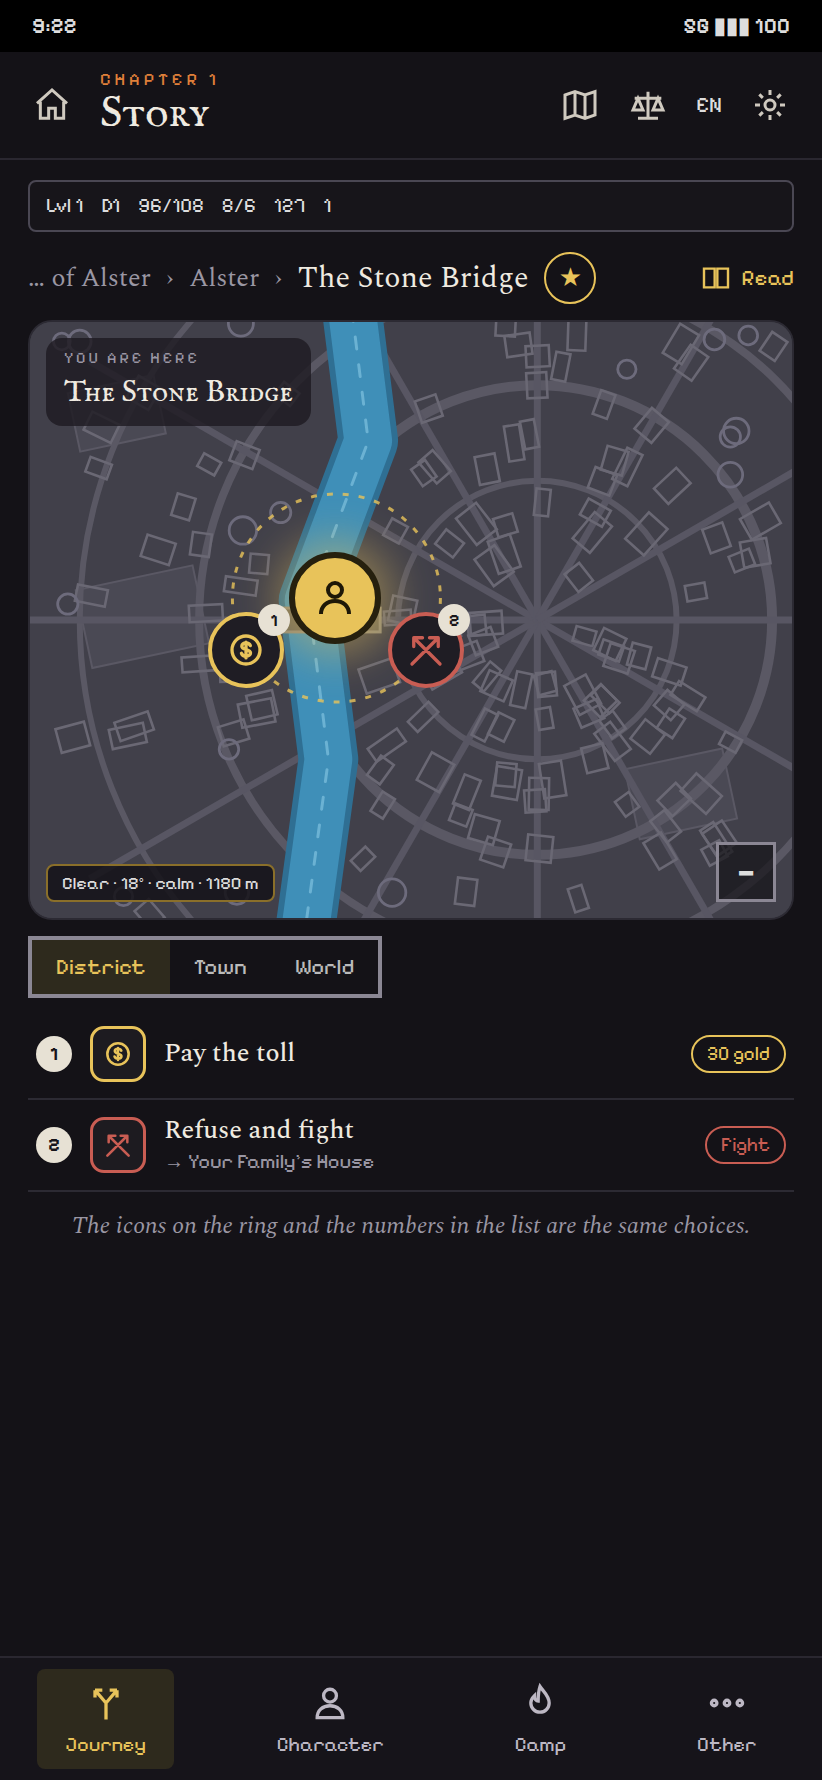
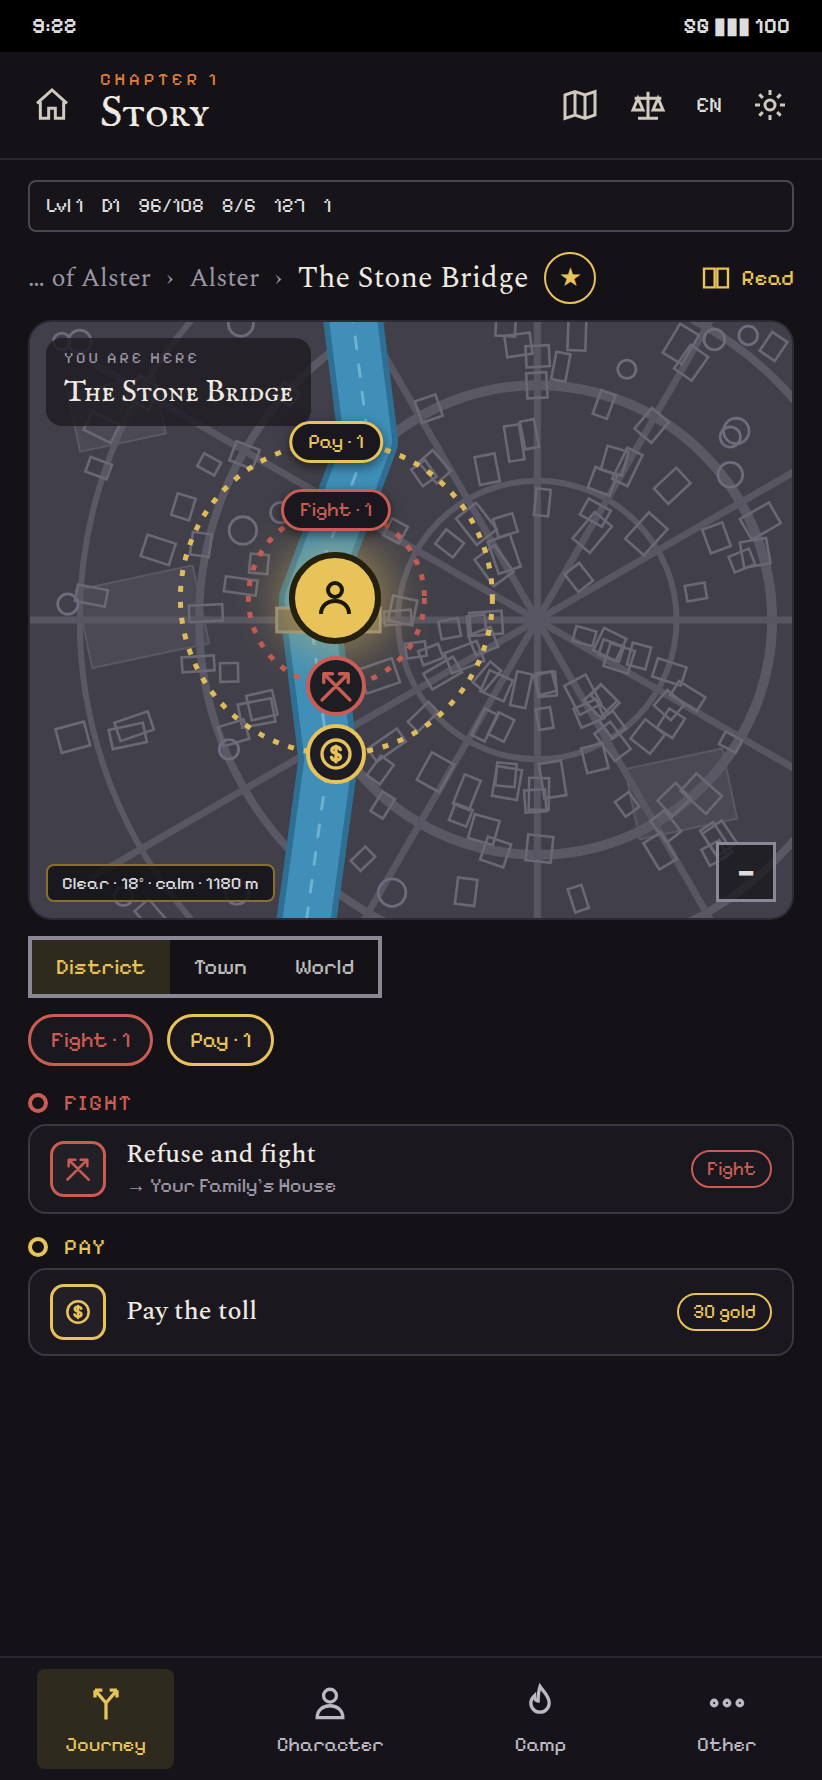
docs: in-place choices: rings by list with chips (town hub example), main-story scene view like the explorations
Claude-Session: https://claude.ai/code/session_01Y8cU3zPWWudNpnZGCrkKEc

diff --git a/docs/proposals/inplace-choices.md b/docs/proposals/inplace-choices.md
@@ -1,4 +1,4 @@
-# Choices that keep you in place: four designs
+# Choices that keep you in place: four designs, then two additions
 
 Mockups only, nothing built. The brief is `docs/proposals/inplace-choices-brief.md` on the manager's branch (`ccr-76229db7-131ulj`), with the user's three screenshots. The problem in one line: on the Journey map every choice is a pin, and 62% of choices don't move the player, so the labels pile on the marker and on each other.
 
@@ -44,15 +44,19 @@ When the step's choices are `here` choices, the map dims and a panel slides up: 
 - **Against:** it covers most of the screen, so a 5-choice scene scrolls inside the panel. It hides the map exactly when the player may want to see where "Run" goes. Two kinds of step now look different, so the rule for which one you get has to be exact (every choice `here` → panel, otherwise → list?).
 - **Build:** a bottom sheet (like the reward card), a `SceneVignette` that needs the foe's picture (icon today), and the "line the scene ends on", which is the last sentence of the node's text or a new `prompt` field from Narrative.
 
-## 3. Ring around the marker
+## 3. Rings by list, with a chip
 
 ![](images/inplace-3-ring-bridge.png) ![](images/inplace-3-ring-house.png)
 
-The `here` choices are 2 to 4 small action icons on a ring around "You are here", each with a number. The list under the map has the same numbers, so the labels never sit on the map. A plain `go` choice stays a pin with its path.
+Revised after the user's note: **one ring for each list, and a chip that opens the list.** The `here` choices are grouped by kind (Core's action: fight, pay, talk or decide, check), and each group is its own ring around "You are here", with a chip on the ring ("Fight · 1", "Pay · 1") and the same chip under the map. A ring holds up to 5 icons and a "+N" icon for the rest; tapping a chip, on the ring or under the map, opens that list (a sheet of cards, as in design 1) and lights its ring. A plain `go` choice stays a pin with its path. A scene with 2 or 3 choices shows 2 small rings and its lists stacked under the map (above); a **town hub with many choices has several rings**:
 
-- **For:** it keeps the choices *on* the map, the closest to what the game does today, and shows at a glance that these are things you do here.
-- **Against:** icons alone mean nothing the first time, so the list is not optional, and the ring has to be learnt. More than 4 choices don't fit a ring (the brief says 2 to 4; Core's data has scenes with 5 or more). On the District zoom the ring covers the building under the marker. The icon set must be good enough to tell *fight* from *attempt* from *decide* at 38 px.
-- **Build:** a ring layer on the marker, the same list as design 1 (so this is design 1 plus a ring), and a rule for more than 4 (fall back to the plain list).
+![](images/inplace-3-ring-town.png) ![](images/inplace-3-ring-town-open.png)
+
+The example is a real hub, Smugglers' Wharf (node 2015 of the story, 31 choices). By Core's `choiceShape`: 14 are `here` (4 fights, 7 talks and decisions, 2 checks, 1 payment), shown as three rings (Fight · 4, Talk & decide · 7, Checks & pay · 3), and 17 are plain `go` choices, shown as pins at their places with a count (The Landward Gate 5, Tern Row 5, The Lantern Alleys 3, Card Row 2, The Ship-breaker's Yard 2) and one "Ways · 17" chip. The second screen has the "Talk & decide" chip open: its ring is lit, the others dimmed, and the sheet lists its cards (the first card's icon is lit on the ring).
+
+- **For:** the map stays the place where things are. Each ring is one short, learnable list, so a hub never needs more than 3 or 4 rings. The chip, not the icon, is what you read, so the icons need not carry meaning alone.
+- **Against:** a hub whose choices are all one kind overflows its ring: the Reliquary Quarter (node 6010) has 28 choices, 23 of them `decide`, so one ring says "+18" and its list is long. That hub needs a second way to group (by who you talk to, which means a speaker or place field on the choice, from Narrative) or a search in the sheet. The rings sit on top of the buildings around the marker.
+- **Build:** design 1's list (as the sheet), a ring layer on the marker (one ring per non-empty group, chips at the top of each ring, stacked), a "Ways" chip for the `go` pins, and the grouping rule (Core's action, with fight, talk and decide, checks and pay as the four lists).
 
 ## 4. Stage mode
 
@@ -70,19 +74,38 @@ The map dims and zooms to the District; your sprite and the other character face
 |---|---|---|---|---|
 | Fixes the overlap | yes | yes | yes | yes |
 | Keeps the map in view | yes | dimmed | yes | dimmed |
-| Many choices (5+) | yes | scrolls | needs the list | scrolls |
+| Many choices (5+) | yes | scrolls | several rings, one chip each | scrolls |
 | French and 320 px | yes | yes | yes | tight in bubbles |
 | New art | none | a vignette | icon set | a sprite per foe and NPC |
 | Cost | small | medium | medium | large |
 
+## 5. Main story: a scene view, like the explorations
+
+![](images/inplace-5-scene-bridge.png) ![](images/inplace-5-scene-house.png)
+
+Added at the user's request: for the main story, **the scene view the explorations have**. The land crossing and the detours already play on a screen with a side-view scene on top (`SideViewScene`, the walker in front of a kit), the text under it and the choices as buttons (`LandCrossingScreen`). The story's steps get the same screen: a **side-view scene** of the place with you facing the one you speak to (the toll keeper at the Stone Bridge; Aurel Vane in the ruin of the house), a small header with the place and your health and gold, the **node's text** (four lines, "Read" for all of it), and the **choices as buttons**: action icon, text, tag (a cost, `Fight`, an alignment shift), and a "→ destination" line when the aftermath moves you. "Back to the map" returns to the Journey map.
+
+This is how a step that is a *scene* reads; a *hub* (Smugglers' Wharf) is still the map, with design 3's rings. The map is where you go; the scene is what is said and done where you are.
+
+- **Needs art:** a kit per `ui_theme`. The story's 426 nodes use 14 themes (docks 131 nodes, cathedral 94, slums 52, catacombs 48, desert 10, torture chamber 6, sewers 5, hovel 4, gate 4, bridge 3, market 1, and the prologue, the origin endings and the epilogues). Ten kits cover the story's play; the desert one exists. The mockups draw two (bridge, ruined street) in the app's pixel look. A scene also needs a facing sprite for who you speak to; foes have front icons only, so until a sprite exists the scene can show the portrait icon instead.
+- **Needs from Core and Narrative:** a "who you face" per node (an enemy or NPC id; many nodes are narrator-only and show just the scene) and, for the weather and time, what the Journey map already has.
+- **Build:** a `StoryScene` screen on `LandCrossingScreen`'s layout, kits per theme on the existing side-view engine, the choice buttons from design 1's card. It replaces the Journey map for the nodes that are scenes (every node with a `ui_theme` kit and no hub), and the map's list and rings stay for the hubs.
+
 ## Recommendation
 
-Build **1 now**: it fixes the problem alone, for every screen, and its list is the backbone of the others (3 is 1 plus a ring; 4's bubbles are 1's cards re-dressed). Then, if the user likes the feel of 4, grow it as a **scene layer** for the set pieces only (a fight at the bridge, the house), where a facing sprite is worth drawing, with the list as the fallback for every scene that has no sprite yet. 2 and 3 are less worth building: 2 hides the map when the map matters and 3 can't hold more than 4.
+Two layers, one set of cards:
+
+1. **The choice card** (design 1's: icon, text, tag, "→ destination") is the common part everywhere: in the scene view's buttons, in a list under the map, in a ring's sheet.
+2. **The main story's steps play as scene views** (5), like the explorations.
+3. **Hubs and towns stay on the map**, with design 3's rings by list and a chip each, and pins only for plain `go` choices.
+4. Designs 2 (panel) and 4 (stage) are what 5 grows into if the scene should be more theatrical: 4 is a scene view whose choices are bubbles over the sprites. If the user likes 5, 2 and 4 need not be built.
+
+Build 1's card and the map's pins filter first (it fixes the overlap alone, in a few days), then the rings, then the story scene kits one theme at a time (docks and slums first: they hold 183 of the 426 nodes).
 
 ## What I need
 
 - **Core:** per choice, its tag data (cost, alignment shift, the aftermath's destination name) next to `choiceShape`'s move, action and `here`; the price of a toll-style choice comes from the next scene's `reqGold`, so `choiceShape` or a sibling should expose it.
-- **Narrative:** for design 2 and 4, a short `prompt` line for each choice node (today the last sentence of the text is quoted), and a "who you face" per node (an enemy or NPC id).
+- **Narrative:** for the scene view and designs 2 and 4, a "who you face" per node (an enemy or NPC id), and a short `prompt` line for each choice node (today the last sentence of the text is quoted). For hubs with many choices of one kind (the Reliquary Quarter), a way to group them beyond the action (who they are about).
 - **User:** which design to build, and whether the list may sit under the map on a phone where the map takes the top half.
 
-The files for the mockups: `docs/proposals/images/inplace-{1-list,2-panel,3-ring,4-stage}-{bridge,house}.png` and `inplace-overview.png`.
+The files for the mockups: `docs/proposals/images/inplace-{1-list,2-panel,3-ring,4-stage,5-scene}-{bridge,house}.png`, `inplace-3-ring-town.png`, `inplace-3-ring-town-open.png` and `inplace-overview.png`.
